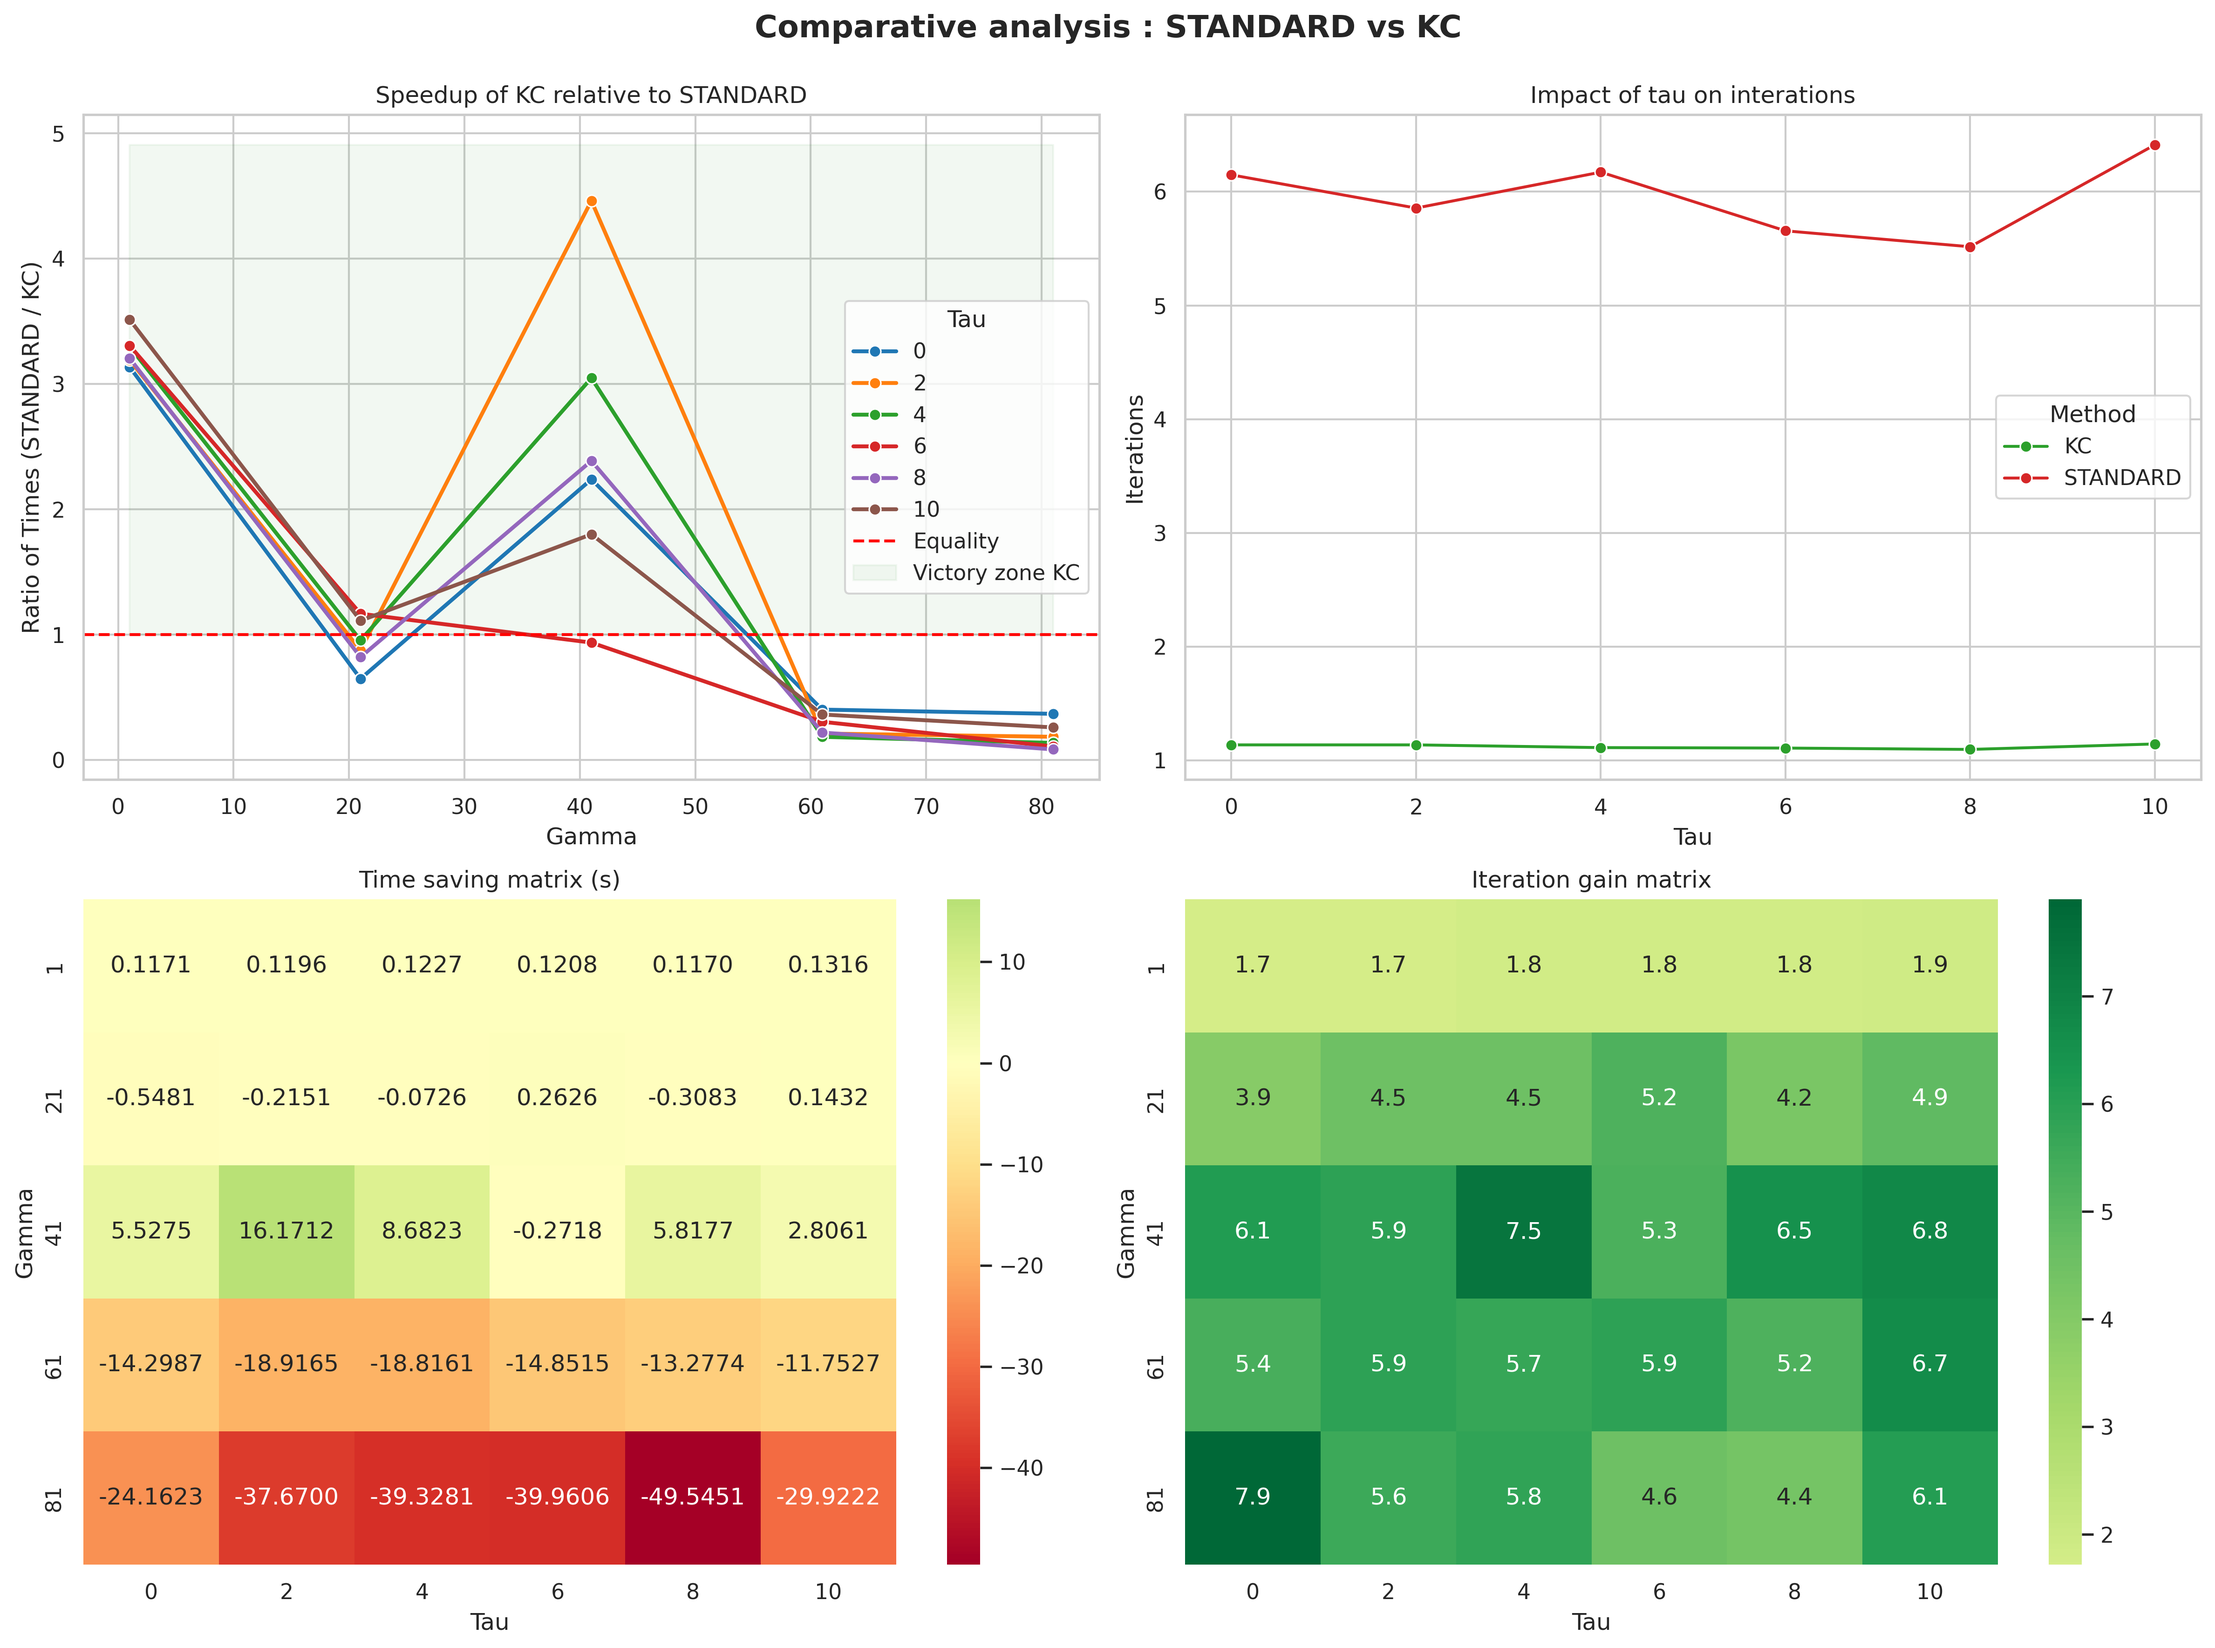
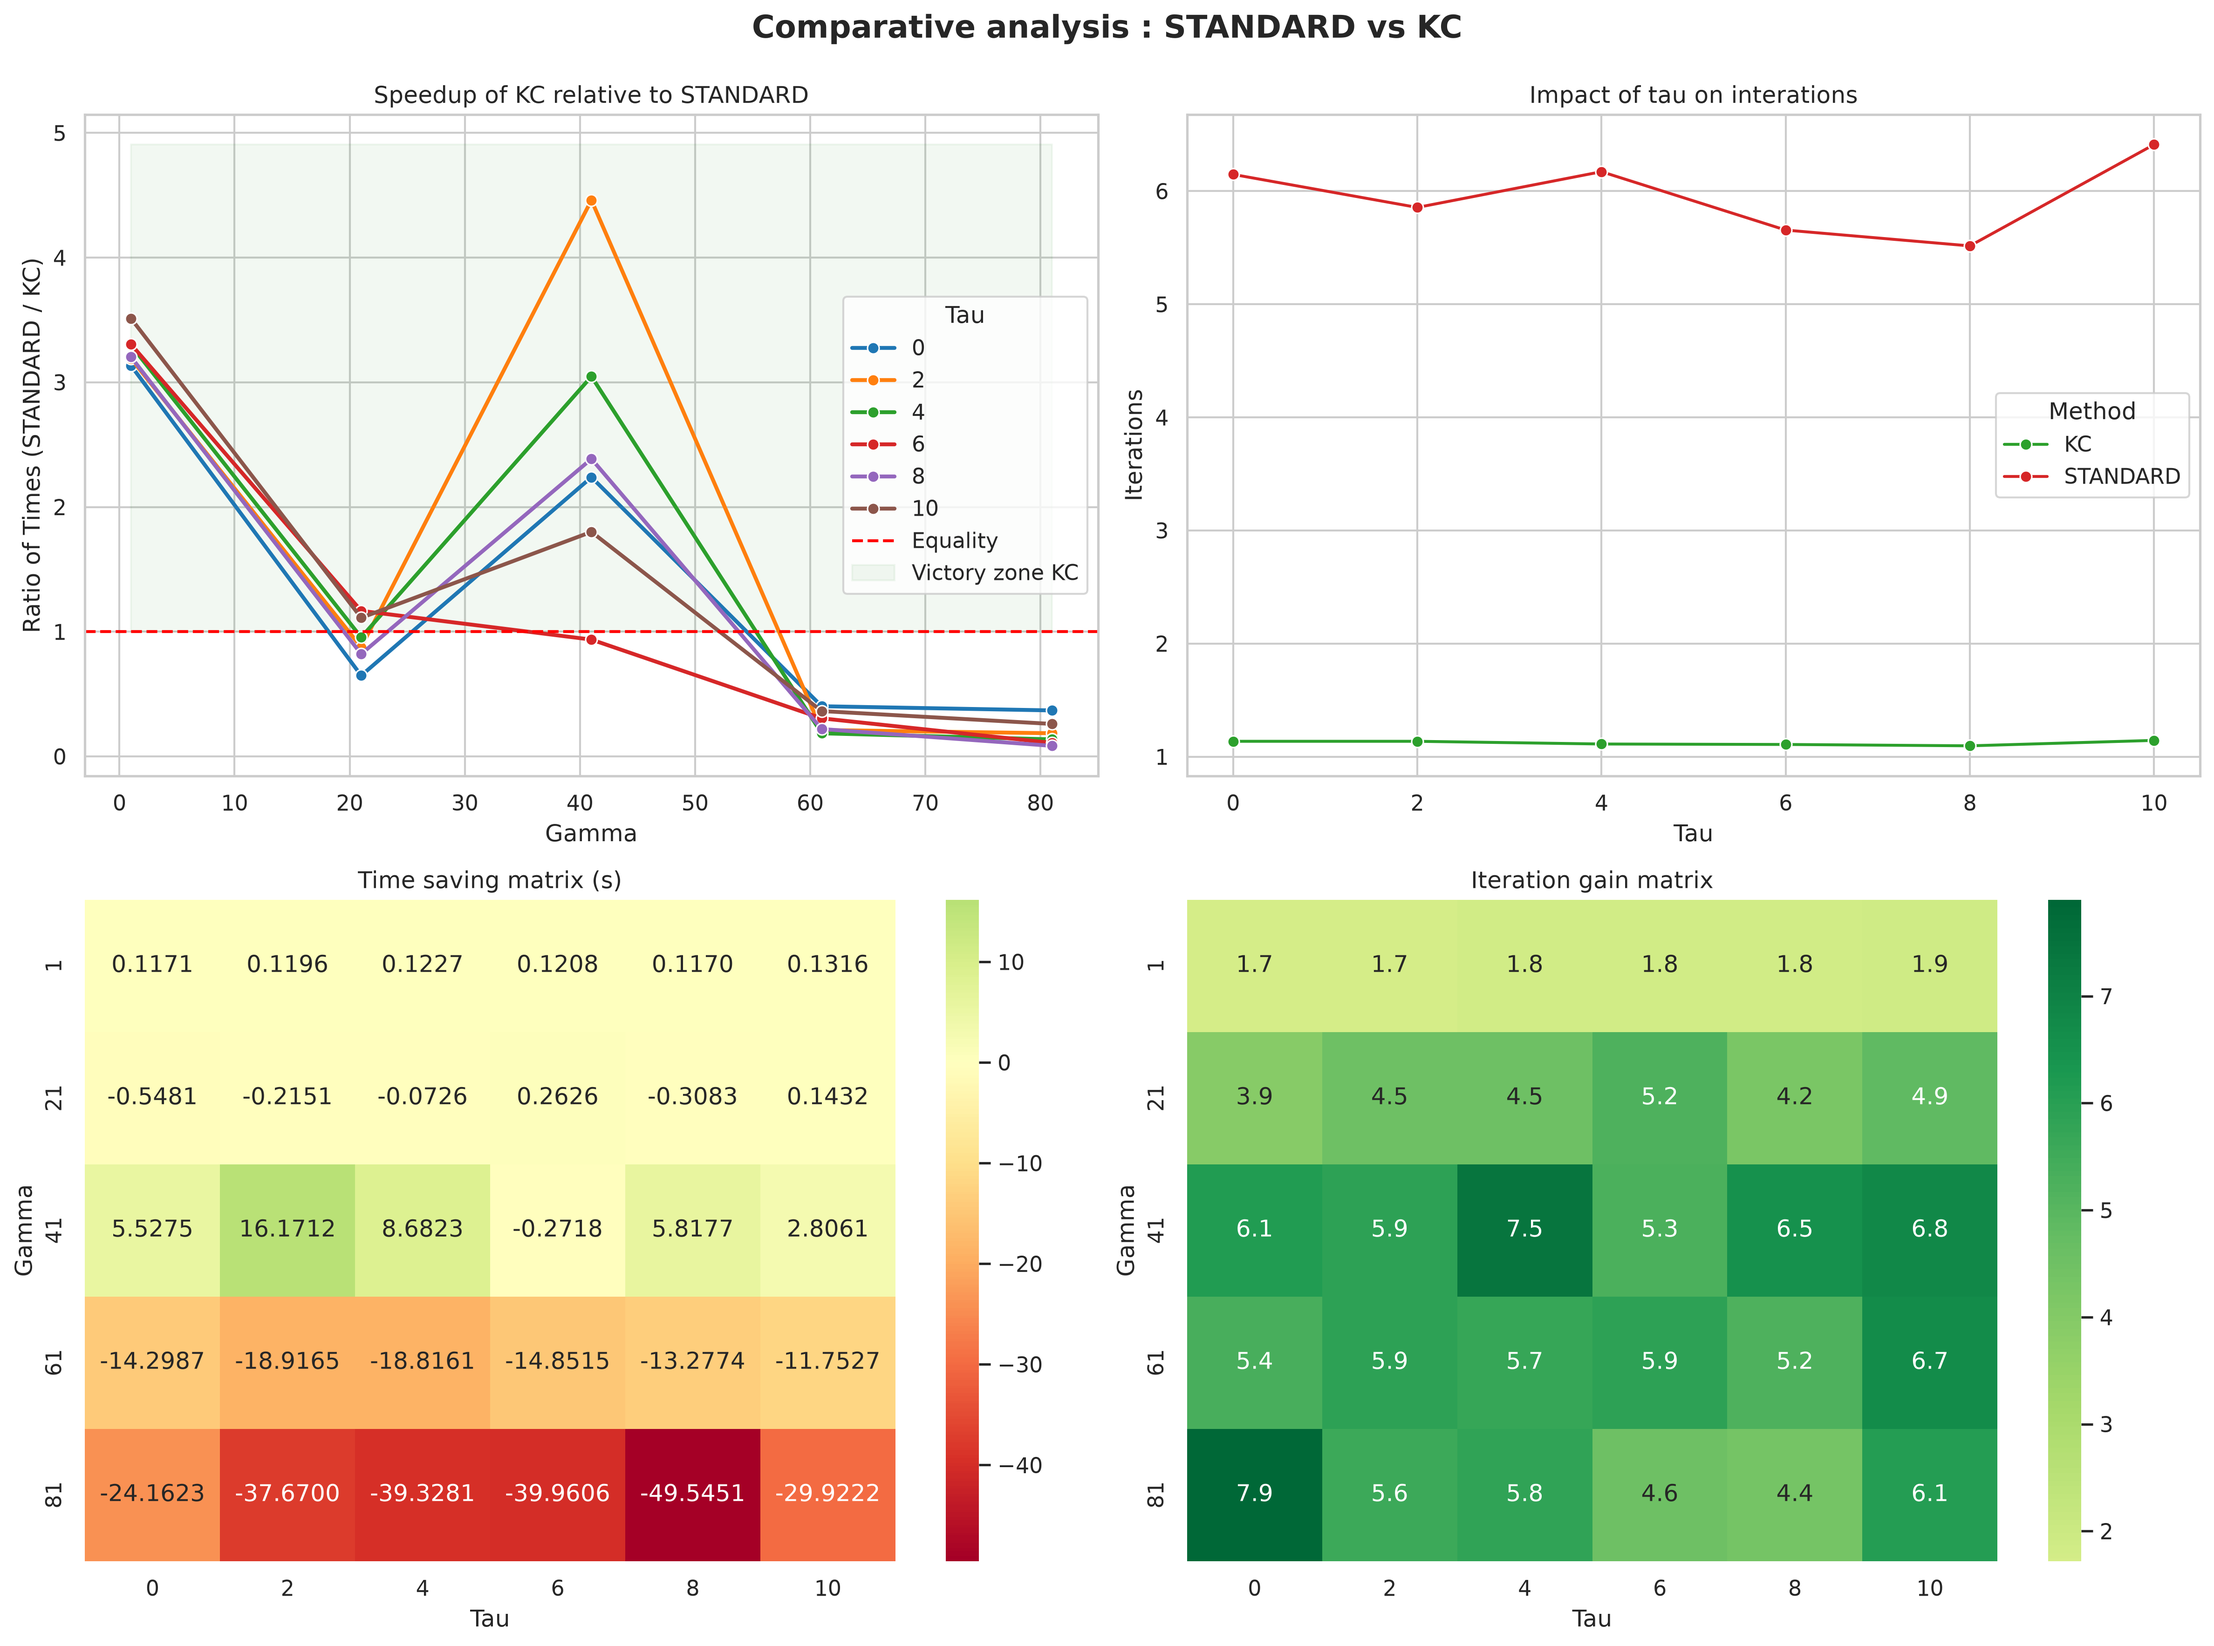
update analyse_benders_results

diff --git a/STG/PROJET/bae/results/analyse_benders_resultsv2.py b/STG/PROJET/bae/results/analyse_benders_resultsv2.py
@@ -1,12 +1,9 @@
 import pandas as pd
 import matplotlib.pyplot as plt
 import seaborn as sns
-import tkinter as tk
 import os
-from tkinter import filedialog
 
 def analyze_benders_results(file_path):
-    # Configuration
     try:
         df = pd.read_csv(file_path, sep=r'[,\s]+', engine='python', 
                          names=['Method', 'Gamma', 'Tau', 'Iterations', 'Time'])
@@ -87,21 +84,53 @@ def analyze_benders_results(file_path):
     output_image_path = os.path.join(target_directory, output_image_name)
 
     plt.savefig(output_image_path, dpi=300, bbox_inches='tight')
-    plt.show()
+    # plt.show()
 
-def main():
-    root = tk.Tk()
-    root.withdraw()
-    
-    file_path = filedialog.askopenfilename(
-        title="Select the results file",
-        filetypes=[("Données", "*.csv *.txt"), ("Tous", "*.*")]
-    )
-    
-    if file_path:
-        analyze_benders_results(file_path)
-    else:
-        print("No file selected.")
+method = False  # True, False
 
-if __name__ == "__main__":
-    main()
+if method:  # Window with Tkinter
+    import tkinter as tk
+    from tkinter import filedialog
+
+    def main():
+        root = tk.Tk()
+        root.withdraw()
+    
+        file_path = filedialog.askopenfilename(
+            title="Select the results file",
+            filetypes=[("Données", "*.csv *.txt"), ("Tous", "*.*")]
+        )
+        
+        if file_path:
+            analyze_benders_results(file_path)
+        else:
+            print("No file selected.")
+
+    if __name__ == "__main__":
+        main()
+        print("===== Generation complete =====")
+else:
+    import argparse
+    import os
+    import matplotlib
+    matplotlib.use('Agg')
+
+    def main():
+        
+        parser = argparse.ArgumentParser(description="Analyse des résultats d'optimisation.")
+        parser.add_argument("file_path", help="Chemin du fichier CSV/TXT à analyser", nargs="?")
+        
+        args = parser.parse_args()
+        file_path = args.file_path
+
+        if not file_path:
+            file_path = input("Entrez le chemin du fichier de résultats : ").strip()
+
+        if file_path and os.path.exists(file_path):
+            analyze_benders_results(file_path)
+        else:
+            print(f"Erreur : Le fichier '{file_path}' n'existe pas ou est invalide.")
+
+    if __name__ == "__main__":
+        main()
+        print("===== Generation complete =====")
